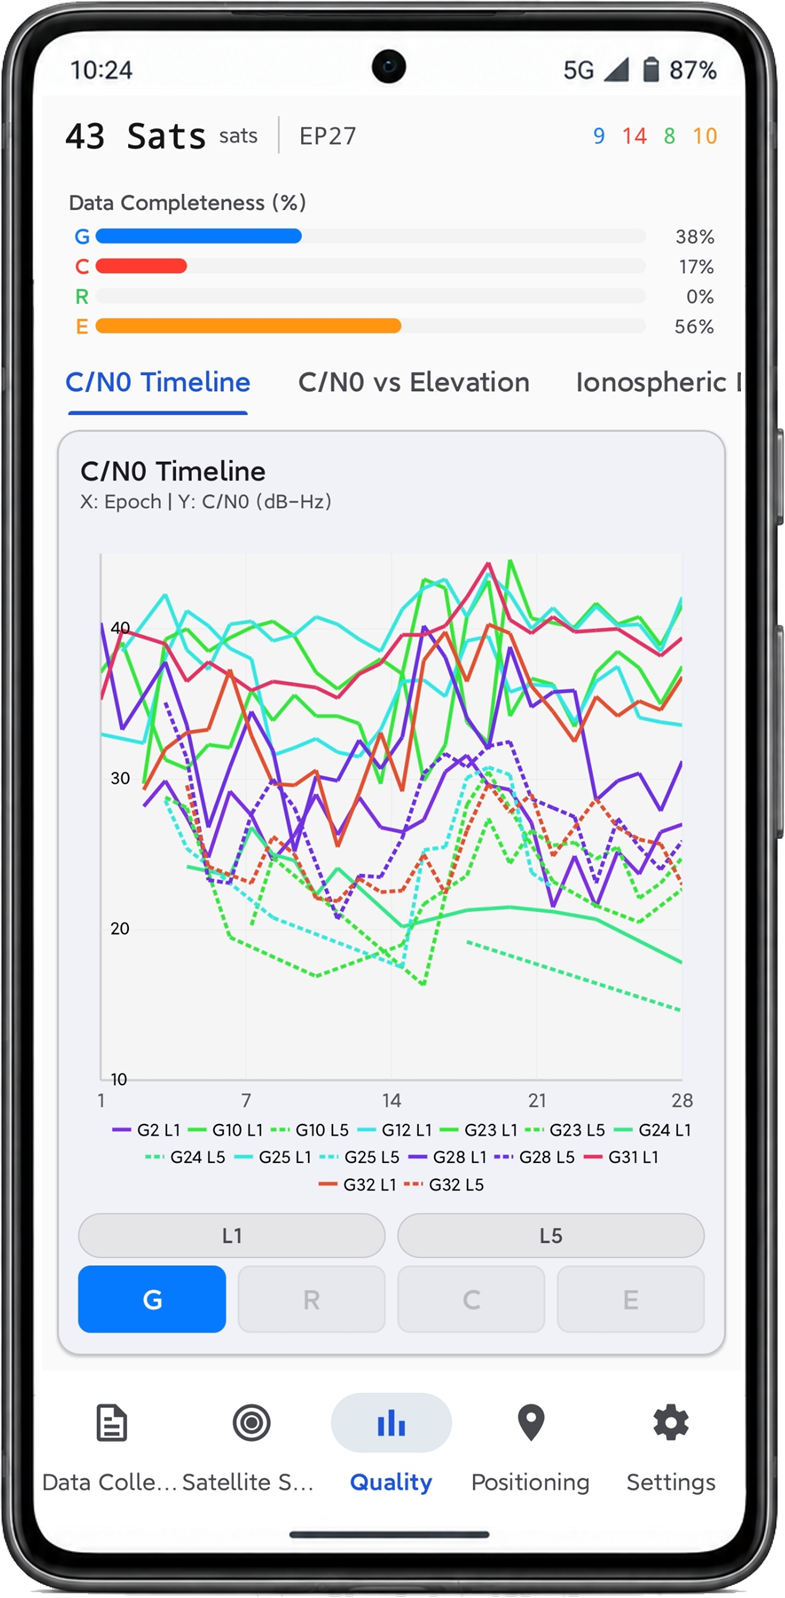
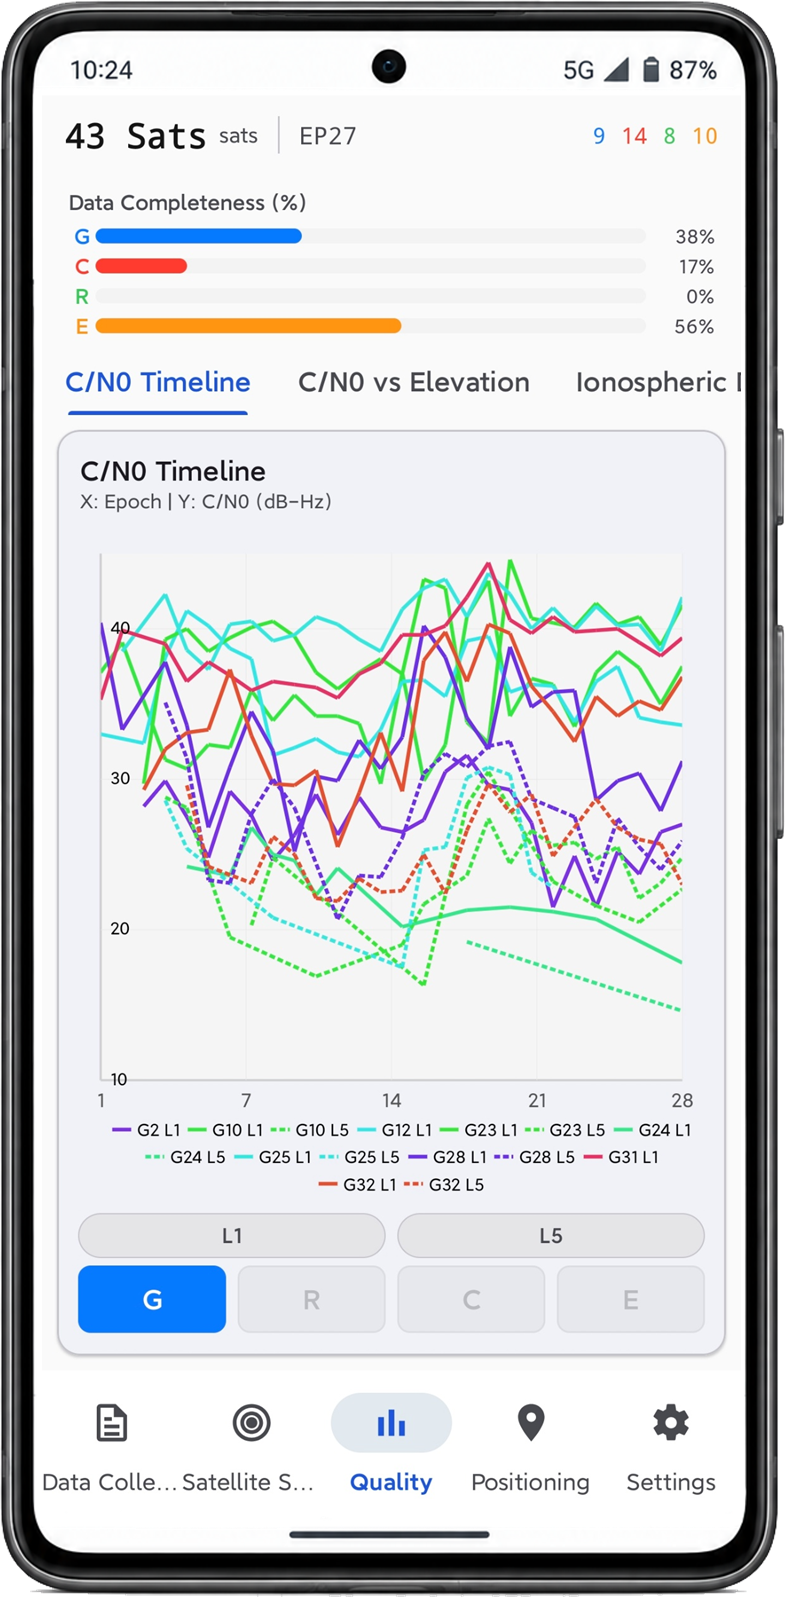
Render the screenshots at a uniform width
Replace the four-column markdown table with an HTML table that pins each
image to 220 px, so the panels no longer render at differing sizes.
Normalize 3-quality.png to 786x1598 to match the other three.

diff --git a/README.md b/README.md
@@ -22,11 +22,14 @@ P-Nav builds on the open-source [myGNSS](https://github.com/z1Yang-1/myGNSS) app
 
 ## Screenshots
 
-| Data collection | Satellite status | Quality analysis | Positioning |
-|---|---|---|---|
-| ![Data collection](docs/screenshots/1-collect.png) | ![Satellite status](docs/screenshots/2-skyview.png) | ![Quality analysis](docs/screenshots/3-quality.png) | ![Positioning](docs/screenshots/4-positioning.png) |
-
-> Screenshot files are expected under `docs/screenshots/`. See [`docs/screenshots/README.md`](docs/screenshots/README.md) for the required filenames and cropping notes.
+<table>
+  <tr>
+    <td align="center"><img src="docs/screenshots/1-collect.png" width="220"><br><sub>Data collection</sub></td>
+    <td align="center"><img src="docs/screenshots/2-skyview.png" width="220"><br><sub>Satellite status</sub></td>
+    <td align="center"><img src="docs/screenshots/3-quality.png" width="220"><br><sub>Quality analysis</sub></td>
+    <td align="center"><img src="docs/screenshots/4-positioning.png" width="220"><br><sub>Positioning</sub></td>
+  </tr>
+</table>
 
 ---
 
